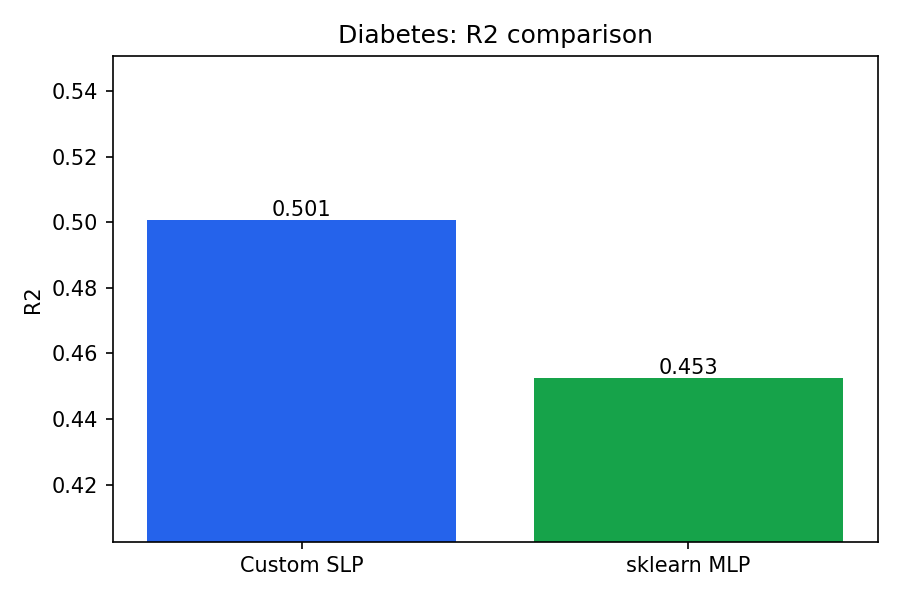
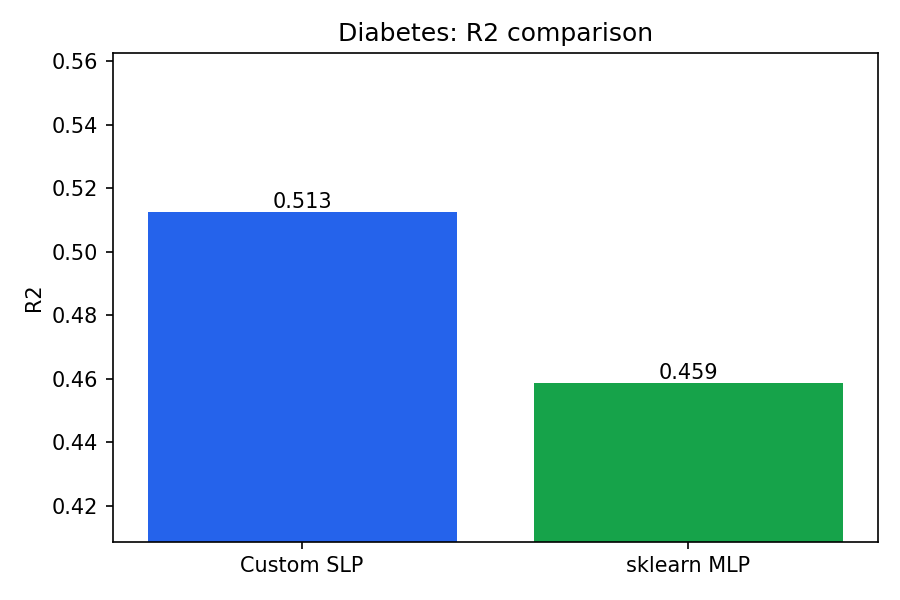
main

diff --git a/demo.py b/demo.py
@@ -346,6 +346,7 @@ def run_regression_demo(
     name: str,
     dataset_loader: Callable,
     hidden_layer_size: int,
+    activation: str,
     learning_rate: float,
     max_iter: int,
     batch_size: int,
@@ -371,7 +372,7 @@ def run_regression_demo(
 
     custom_model = SimpleSLPRegressor(
         hidden_layer_size=hidden_layer_size,
-        activation="relu",
+        activation=activation,
         learning_rate=learning_rate,
         max_iter=max_iter,
         batch_size=batch_size,
@@ -387,7 +388,7 @@ def run_regression_demo(
 
     sklearn_model = MLPRegressor(
         hidden_layer_sizes=(hidden_layer_size,),
-        activation="relu",
+        activation=activation,
         solver="sgd",
         learning_rate_init=learning_rate,
         max_iter=max_iter,
@@ -474,7 +475,8 @@ def main() -> None:
             dataset_loader=load_diabetes,
             hidden_layer_size=50,
             learning_rate=0.001,
-            max_iter=500,
+            max_iter=800,
+            activation="tanh",
             batch_size=32,
             momentum=0.9,
         ),
@@ -482,6 +484,7 @@ def main() -> None:
             name="Friedman",
             dataset_loader=load_friedman_regression,
             hidden_layer_size=50,
+            activation="relu",
             learning_rate=0.005,
             max_iter=500,
             batch_size=32,

diff --git a/slp_base.py b/slp_base.py
@@ -22,7 +22,7 @@ class BaseSLPEstimator(ABC):
 
     Contains common functionality shared between both estimators.
     """
-
+    # Stores all hyperparameters and validate them
     def __init__(
         self,
         hidden_layer_size: int | Sequence[int] = 100,
@@ -116,7 +116,7 @@ class BaseSLPEstimator(ABC):
         self.velocity_weights_: Optional[list[NDArray[np.floating]]] = None
         self.velocity_biases_: Optional[list[NDArray[np.floating]]] = None
         self.loss_curve_: list[float] = []
-
+    # returns the activation function and its derivative as a pair
     def _get_activation_function(
         self,
     ) -> Tuple[Callable[[NDArray], NDArray], Callable[[NDArray], NDArray]]:
@@ -129,7 +129,7 @@ class BaseSLPEstimator(ABC):
             return logistic, logistic_derivative
         else:
             raise ValueError(f"Unknown activation: {self.activation}")
-
+    # Creates weight martrices and bias vectors for each layer 
     def _initialize_weights(self) -> None:
         """
         Initialize weights and biases.
